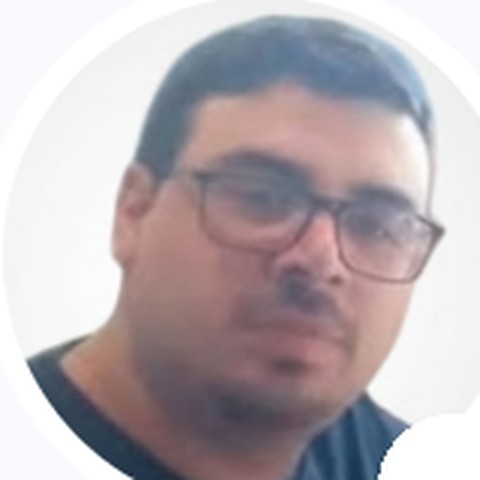
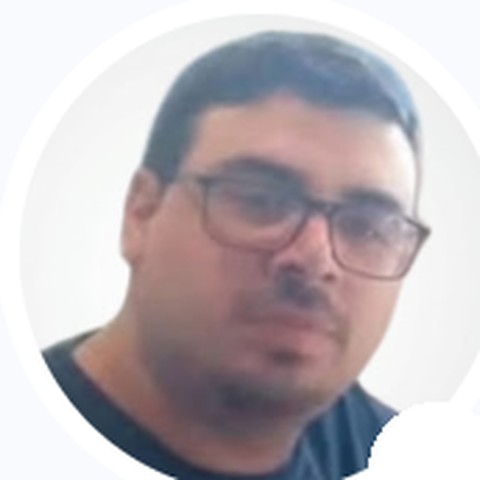
Add files via upload

diff --git a/index.html b/index.html
@@ -60,7 +60,8 @@
         <ul class="chips"><li>Post-translation layout</li><li>PDF remediation</li><li>Accessibility</li><li>File recreation</li></ul> -->
       </div>
       <div class="vis rv" style="--d:.2s">
-        <img class="dtp-art" src="img/dtp-brochures.jpg" alt="The same brochure laid out in Spanish, Japanese and Arabic: Latin, CJK and right-to-left versions side by side" width="950" height="677">
+        <!-- v3.35 image: <img class="dtp-art" src="img/dtp-brochures.jpg" alt="The same brochure laid out in Spanish, Japanese and Arabic: Latin, CJK and right-to-left versions side by side" width="950" height="677"> -->
+        <div class="dtp-fig"><img class="dtp-art" src="img/dtp-brochures-v3.jpg" alt="The same brochure laid out in Spanish, Japanese and Arabic: Latin, CJK and right-to-left versions side by side" width="950" height="677"><span class="pin-label" style="--x:13.6%;--y:8%" lang="en">Latin</span><span class="pin-label" style="--x:44.5%;--y:6.1%">CJK</span><span class="pin-label" style="--x:81.8%;--y:11.2%">RTL</span></div>
         <!-- Script grid (previous visual), hidden for now:
         <div class="glyphs" role="img" aria-label="Type specimen: Latin, Cyrillic, Japanese, Chinese, Korean, Arabic, Hebrew and Thai scripts">
           <div><span lang="en">Aa</span><small>Latn</small></div>
@@ -97,6 +98,17 @@
         </ul>
       </div>
       -->
+      <!-- v3.35: Tools now comes first, then "What we do"; the "*" closing line stays at the very bottom (v3.34 order: What we do, then Tools) -->
+      <div class="mini mini-tools">
+        <h3 class="mini-label">Tools</h3>
+        <dl class="tools">
+            <!-- v3.31: <dd>InDesign · Illustrator · Photoshop · Acrobat Pro · Word</dd> -->
+            <div><dt>Software</dt><dd>Adobe&nbsp;InDesign · Illustrator · Photoshop · Acrobat&nbsp;Pro · Microsoft&nbsp;Word · PowerPoint · Excel · Figma · Canva</dd></div>
+            <div><dt>Scripts</dt><dd>Latin · Cyrillic · CJK · Right-to-left</dd></div>
+        </dl>
+        <!-- v3.18: Python tools line removed from the site (Python is mentioned only in About):
+        <p class="tools-note"><svg width="16" height="16" viewBox="0 0 24 24" aria-hidden="true"><path d="M8.5 7.5L4 12l4.5 4.5M15.5 7.5L20 12l-4.5 4.5" fill="none" stroke="currentColor" stroke-width="2" stroke-linecap="round" stroke-linejoin="round"/></svg><span>Our own Python tools move text in and out of InDesign, Illustrator and Word files through XLIFF, so nothing is retyped.</span></p> -->
+      </div>
       <div class="mini">
         <h3 class="mini-label">What we do</h3>
         <ol class="todo">
@@ -107,16 +119,6 @@
             <li><b>File recreation</b><span>An editable file rebuilt from a PDF or a scan.</span></li>
             <li><b>PDF remediation &amp; accessibility</b><span>Tagged, accessible PDFs.</span></li>
         </ol>
-      </div>
-      <div class="mini">
-        <h3 class="mini-label">Tools</h3>
-        <dl class="tools">
-            <!-- v3.31: <dd>InDesign · Illustrator · Photoshop · Acrobat Pro · Word</dd> -->
-            <div><dt>Software</dt><dd>InDesign · Illustrator · Photoshop · Acrobat&nbsp;Pro · Microsoft&nbsp;Word · PowerPoint · Excel · Figma · Canva</dd></div>
-            <div><dt>Scripts</dt><dd>Latin · Cyrillic · CJK · Right-to-left</dd></div>
-        </dl>
-        <!-- v3.18: Python tools line removed from the site (Python is mentioned only in About):
-        <p class="tools-note"><svg width="16" height="16" viewBox="0 0 24 24" aria-hidden="true"><path d="M8.5 7.5L4 12l4.5 4.5M15.5 7.5L20 12l-4.5 4.5" fill="none" stroke="currentColor" stroke-width="2" stroke-linecap="round" stroke-linejoin="round"/></svg><span>Our own Python tools move text in and out of InDesign, Illustrator and Word files through XLIFF, so nothing is retyped.</span></p> -->
         <p class="tools-note closing"><span class="star" aria-hidden="true">*</span><span>Can’t see your tool or task here? <a class="touch" href="mailto:YOUR_EMAIL">Get in touch</a>. Chances are we can still help you get it done.</span></p>
       </div>
     </div>
@@ -135,6 +137,7 @@
         <p class="fine">Built in Storyline 360, Rise 360, Captivate, Vyond, Premiere Pro and After Effects. Delivered as SCORM / xAPI packages, MP4 video and VTT / SRT captions.</p> -->
       </div>
       <div class="vis rv" style="--d:.2s">
+        <!-- v3.37: static image instead of the animated, coded player. To bring the player back, remove these comment marks:
         <div class="lms" id="lms" role="img" aria-label="An eLearning course player with a presenter video, captions and a quiz, switching between English, Spanish, German and Japanese; behind it, an audio track and a course card in Arabic">
           <div class="lms-in" aria-hidden="true">
             <div class="lms-back">
@@ -158,7 +161,8 @@
               <div class="lp-ctrl"><svg viewBox="0 0 24 24" aria-hidden="true"><path d="M7 4.5v15l12-7.5z" fill="currentColor"/></svg><svg viewBox="0 0 24 24" aria-hidden="true"><path d="M4 9.5h3.5L12 5.5v13l-4.5-4H4z" fill="currentColor"/><path d="M15.5 9a4 4 0 010 6M18 6.5a7.5 7.5 0 010 11" fill="none" stroke="currentColor" stroke-width="1.8" stroke-linecap="round"/></svg><span class="lp-time">00:12 / 01:24</span><span class="lp-track"><i></i></span><span class="lp-ccbtn">CC</span><svg viewBox="0 0 24 24" aria-hidden="true"><circle cx="12" cy="12" r="3.2" fill="none" stroke="currentColor" stroke-width="1.8"/><path d="M12 2.8v3M12 18.2v3M2.8 12h3M18.2 12h3M5.5 5.5l2.1 2.1M16.4 16.4l2.1 2.1M5.5 18.5l2.1-2.1M16.4 7.6l2.1-2.1" stroke="currentColor" stroke-width="1.8" stroke-linecap="round"/></svg><svg viewBox="0 0 24 24" aria-hidden="true"><path d="M4 9V4h5M15 4h5v5M20 15v5h-5M9 20H4v-5" fill="none" stroke="currentColor" stroke-width="1.8" stroke-linecap="round" stroke-linejoin="round"/></svg></div>
             </div>
           </div>
-        </div>
+        </div> -->
+        <img class="elv-art" src="img/elearning-player.jpg" alt="An eLearning course player with a presenter video, captions in English, a quiz and a Korean course card" width="972" height="604">
       </div>
       <!-- Visual hidden for now (monitor + phone, v2.3). Remove these comment marks to bring it back:
       <div class="vis rv" style="--d:.2s">
@@ -193,6 +197,18 @@
     </div>
     </div>
     <div class="tail">
+      <!-- v3.35: Tools now comes first, then "What we do"; the "*" closing line stays at the very bottom (v3.34 order: What we do, then Tools) -->
+      <div class="mini mini-tools">
+        <h3 class="mini-label">Tools</h3>
+        <dl class="tools">
+            <div><dt>Authoring</dt><dd>Articulate&nbsp;Storyline&nbsp;360 · Rise · Adobe&nbsp;Captivate</dd></div>
+            <!-- v3.31: <div><dt>Media</dt><dd>Vyond · Premiere Pro · After Effects · Photoshop</dd></div> -->
+            <div><dt>Media &amp; Video</dt><dd>Adobe&nbsp;Premiere&nbsp;Pro · After&nbsp;Effects · Subtitle&nbsp;Edit · Vyond · Google&nbsp;Vids</dd></div>
+            <!-- v3.28: removed from the site: <div><dt>Formats</dt><dd>XLIFF · VTT · SRT</dd></div> -->
+        </dl>
+        <!-- v3.18: Python tools line removed from the site (Python is mentioned only in About):
+        <p class="tools-note"><svg width="16" height="16" viewBox="0 0 24 24" aria-hidden="true"><path d="M8.5 7.5L4 12l4.5 4.5M15.5 7.5L20 12l-4.5 4.5" fill="none" stroke="currentColor" stroke-width="2" stroke-linecap="round" stroke-linejoin="round"/></svg><span>Our own Python tools compare course structure, reinject earlier translations into updated courses and time captions to audio.</span></p> -->
+      </div>
       <div class="mini">
         <h3 class="mini-label">What we do</h3>
         <ol class="todo">
@@ -203,17 +219,6 @@
             <li><b>Video &amp; animation</b><span>Vyond and After Effects scenes retimed and <span class="nw">re-texted.</span></span></li>
             <li><b>Graphics</b><span>Text inside images and screenshots recreated.</span></li>
         </ol>
-      </div>
-      <div class="mini">
-        <h3 class="mini-label">Tools</h3>
-        <dl class="tools">
-            <div><dt>Authoring</dt><dd>Articulate&nbsp;Storyline&nbsp;360 · Rise · Adobe&nbsp;Captivate</dd></div>
-            <!-- v3.31: <div><dt>Media</dt><dd>Vyond · Premiere Pro · After Effects · Photoshop</dd></div> -->
-            <div><dt>Media &amp; Video</dt><dd>Adobe&nbsp;Premiere&nbsp;Pro · After&nbsp;Effects · Subtitle&nbsp;Edit · Vyond · Google&nbsp;Vids</dd></div>
-            <!-- v3.28: removed from the site: <div><dt>Formats</dt><dd>XLIFF · VTT · SRT</dd></div> -->
-        </dl>
-        <!-- v3.18: Python tools line removed from the site (Python is mentioned only in About):
-        <p class="tools-note"><svg width="16" height="16" viewBox="0 0 24 24" aria-hidden="true"><path d="M8.5 7.5L4 12l4.5 4.5M15.5 7.5L20 12l-4.5 4.5" fill="none" stroke="currentColor" stroke-width="2" stroke-linecap="round" stroke-linejoin="round"/></svg><span>Our own Python tools compare course structure, reinject earlier translations into updated courses and time captions to audio.</span></p> -->
         <p class="tools-note closing"><span class="star" aria-hidden="true">*</span><span>Can’t see your tool or task here? <a class="touch" href="mailto:YOUR_EMAIL">Get in touch</a>. Chances are we can still help you get it done.</span></p>
       </div>
     </div>
@@ -306,7 +311,8 @@
       <h2 class="huge">Let’s talk.</h2>
       <!-- v3.17 text (replaced in v3.18): <p class="lead" style="max-width:31em">Any file, any format, any language. Tell us what you need. We Do the rest.</p> -->
       <!-- v3.25 text: <p class="lead" style="max-width:31em">Got a file that needs a new language? Any file, any format, any language. Let’s take a look at it together.</p> -->
-      <p class="lead" style="max-width:31em">Got a file that needs a new language? Any file, any format, any language. Let’s take a look at it together, Contact us.</p>
+      <!-- v3.33 text: …together, Contact us. -->
+      <p class="lead" style="max-width:31em">Got a file that needs a new language? Any file, any format, any language. Let’s take a look at it together. Get a Quote.</p>
       <div class="ctas">
         <button class="cta" type="button" data-chat>Start a chat</button>
         <!-- v3.28: button label was "Email us" --><a class="cta solid" href="mailto:YOUR_EMAIL">Get a Quote<svg width="16" height="16" viewBox="0 0 16 16" aria-hidden="true"><path d="M3 8h10M9 4l4 4-4 4" fill="none" stroke="currentColor" stroke-width="2" stroke-linecap="round" stroke-linejoin="round"/></svg></a>

diff --git a/css/styles.css b/css/styles.css
@@ -1,4 +1,4 @@
-/* We Do — web v3.33 — 2026-11-04 */
+/* We Do — web v3.37 — 2026-11-05 */
 :root{--ink:#16181D;--paper:#F4F5F3;--mint:#5EC4B0;--teal:#1A8A78;--teal-d:#136A5C;--mute-d:#A3ADAA;--mute-l:#565E5B;--mute-m:#1F3D37;
   --mono:ui-monospace,SFMono-Regular,Menlo,Consolas,monospace;
   --fg:#fff;--muted:var(--mute-d);--accent:var(--mint);--line:rgba(255,255,255,.24);--dot:rgba(255,255,255,.32);--bub-bg:#fff;--bub-fg:var(--ink);--count-bg:var(--mint);--count-fg:var(--ink);--cta-bg:var(--mint);--cta-fg:var(--ink)}
@@ -629,3 +629,16 @@ body.foot-in .pet{transform:translateY(calc(-1 * var(--foot-h,0px)))}
 .lamp-off.lamp-off-photo{display:block;width:100%;height:100%;background:none}
 /* v3.33 — phones: the middle stat ("Quality Assurance") gets a wider column so the long word never runs into the next one */
 @media (max-width:640px){.stats{grid-template-columns:minmax(0,.9fr) minmax(0,1.25fr) minmax(0,.85fr)}}
+/* v3.35 — Tools sits on top now: it only takes the room it needs */
+.mini.mini-tools{min-height:0}
+/* v3.37 — DTP: new brochures image (its background matches the page) with "Latin / CJK / RTL" over the pins, a little bigger */
+.dtp-fig{position:relative;width:100%;max-width:860px;margin-left:auto;animation:floaty 7s ease-in-out infinite}
+.dtp-fig .dtp-art{width:100%;max-width:none;margin:0;animation:none}
+.pin-label{position:absolute;left:var(--x);top:var(--y);transform:translate(-50%,-115%);font-size:clamp(11px,.95vw,13px);font-weight:700;letter-spacing:.06em;text-transform:uppercase;color:var(--ink);white-space:nowrap}
+@media (min-width:641px){.dtp-fig{margin-left:0;margin-right:auto}}
+@media (min-width:901px){.dtp .col{flex:0 1 460px}.dtp .vis{flex:1 1 520px}}
+@media (max-width:640px){.dtp-fig{max-width:300px;margin:18px auto 0}.pin-label{font-size:10px}}
+@media (prefers-reduced-motion:reduce){.dtp-fig{animation:none}}
+/* v3.37 — eLearning: static image of the course player; soft edges so it melts into the dark slide */
+.elv-art{display:block;width:100%;max-width:820px;height:auto;margin-left:auto;-webkit-mask-image:linear-gradient(to right,transparent,#000 3%,#000 97%,transparent),linear-gradient(to bottom,transparent,#000 4%,#000 96%,transparent);-webkit-mask-composite:source-in;mask-image:linear-gradient(to right,transparent,#000 3%,#000 97%,transparent),linear-gradient(to bottom,transparent,#000 4%,#000 96%,transparent);mask-composite:intersect}
+@media (max-width:640px){.elv-art{margin:0 auto}}

diff --git a/js/main.js b/js/main.js
@@ -1,4 +1,4 @@
-/* We Do — web v3.33 — 2026-11-04 */
+/* We Do — web v3.37 — 2026-11-05 */
 (function () {
   var sc = document.querySelector('.scroller');
   var secs = Array.prototype.slice.call(sc.querySelectorAll('section'));
